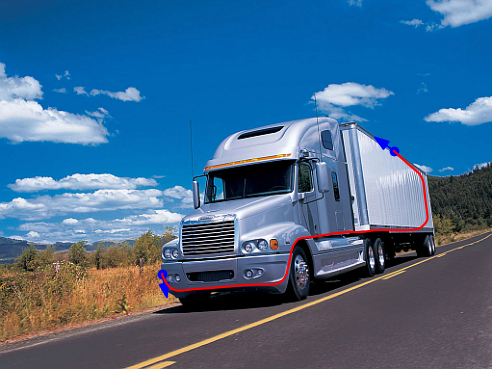
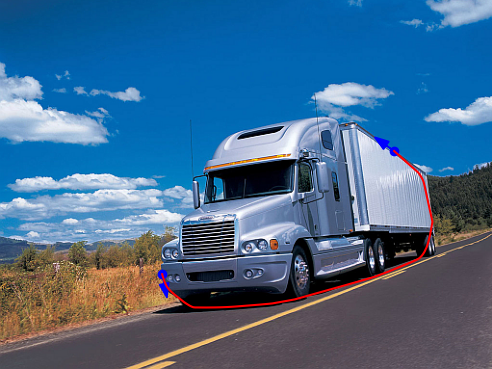
CPU convex geodesic models

diff --git a/GeodesicConvex/Demo/run.py b/GeodesicConvex/Demo/run.py
@@ -1,7 +1,7 @@
 #!/usr/bin/env python3
 
 # Example input
-#./run.py 10. Elastica2 0.05 5 2
+#./run.py 10. 0 Elastica2 0.05 5 2
 
 # System imports
 import argparse
@@ -34,6 +34,7 @@ show=False # show some figures along execution, debug mode
 # Parse input arguments
 ap = argparse.ArgumentParser()
 ap.add_argument("xi", type=float)
+ap.add_argument("convex", type=int)
 ap.add_argument("model", type=str)
 ap.add_argument("_lambda", type=float)
 ap.add_argument("rho", type=float)
@@ -60,7 +61,7 @@ im = np.moveaxis(im,0,1)[:,::-1,:3] # ignore alpha channel, use cartesian coordi
 # ------- Eikonal solver preliminary setup ----------
 
 hfmIn = Eikonal.dictIn({
-    'model':args.model,
+    'model':("Convex"+args.model) if args.convex else args.model,
     'xi':args.xi,
     'cost':1,
     'dims':(*im.shape[:2],64),

diff --git a/GeodesicConvex/Readme.md b/GeodesicConvex/Readme.md
@@ -14,11 +14,13 @@ More precisely:
 
 - The demoExtras file contains the Python code. On my machine it is generated as:
 `tar -cvf demoExtras.tar -C /Users/mirebeau/Dropbox/Programmes/Github/IPOL_Demos/GeodesicConvex/Demo run.py -C /Users/mirebeau/Dropbox/Programmes/Github/AdaptiveGridDiscretizations agd`
-- The HFM library is needed. For IPOL purposes, it has been compressed and is built on the IPOL servers
+- The HFM library is needed. For IPOL purposes, it has been compressed using the following command:
+`tar -cvf hfm.tar --exclude=build --exclude=.git --exclude=*.nb --exclude=__pycache__ -C /Users/mirebeau/Dropbox/Programmes/Github HamiltonFastMarching`
+-The HFM library is built on the IPOL servers, using the following part of the DDL file
         "build1":{
         "url": "https://mirebeau.github.io/IPOL_Demos/hfm.tar",
-        "move":"FileHFM_ReedsShepp2,FileHFM_ReedsSheppForward2,FileHFM_Elastica2,FileHFM_Dubins2,",
-        "construct":"cmake HamiltonFastMarching/Interfaces/FileHFM/ -DStandardModelNames:STRING='Elastica2;ReedsShepp2;ReedsSheppForward2;Dubins2' -DIncludeExperimentalModels:BOOL=FALSE -DCMAKE_BUILD_TYPE:BOOL=Release; make -j4"
+        "move":"FileHFM_ReedsSheppForward2,FileHFM_Elastica2,FileHFM_Dubins2,FileHFM_ConvexReedsSheppForward2,FileHFM_ConvexElastica2,FileHFM_ConvexDubins2",
+        "construct":"cmake HamiltonFastMarching/Interfaces/FileHFM/ -DStandardModelNames:STRING='Elastica2;ReedsSheppForward2;Dubins2;ConvexElastica2;ConvexReedsSheppForward2;ConvexDubins2' -DIncludeExperimentalModels:BOOL=FALSE -DCMAKE_BUILD_TYPE:BOOL=Release; make -j4"
         }
  Related reading : 
  https://stackoverflow.com/questions/34302265/does-cmake-build-type-release-imply-dndebug
